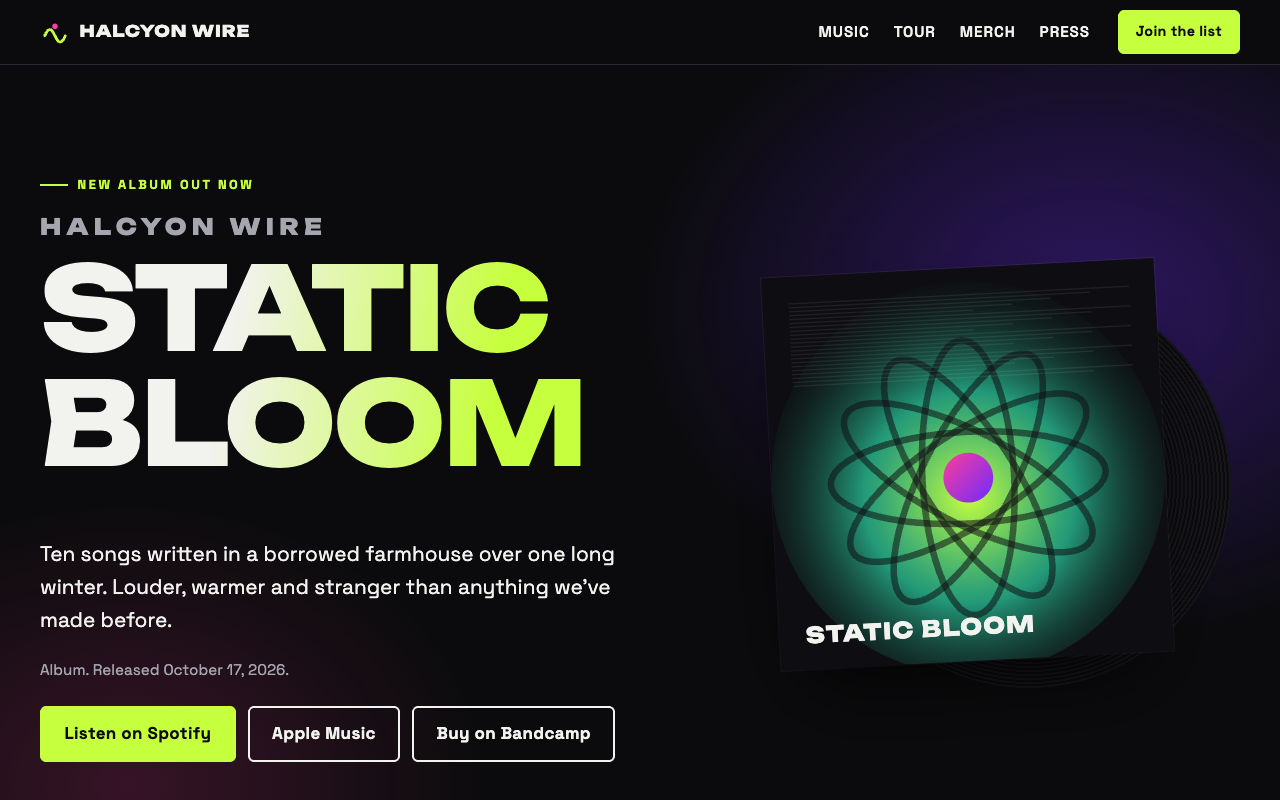
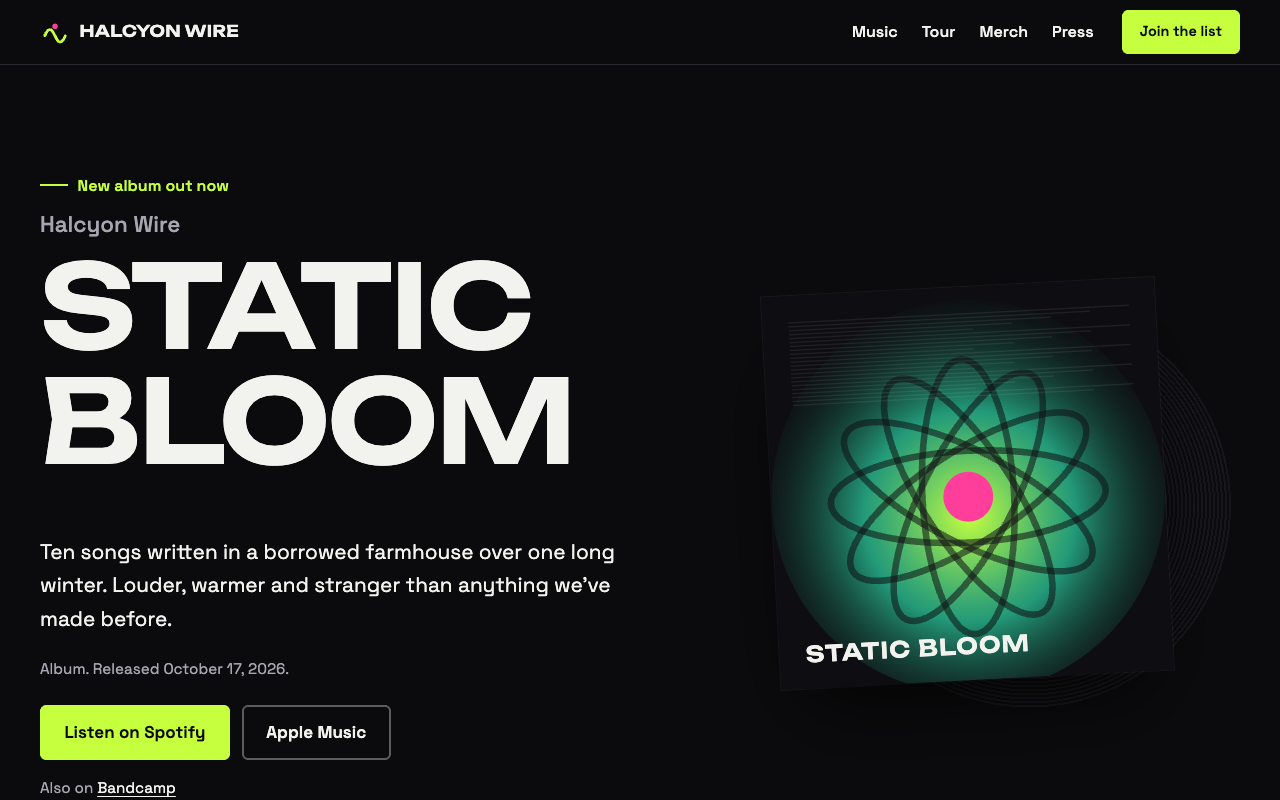
Unslop pass: no gradient text, washes or looping motion; lime as the one accent; sentence-case labels

diff --git a/src/styles/global.css b/src/styles/global.css
@@ -14,6 +14,7 @@
   --font-body: "Space Grotesk Variable", system-ui, sans-serif;
 
   --radius: 6px;
+  --ease: cubic-bezier(0.22, 1, 0.36, 1);
   --wrap: 1200px;
   --gutter: clamp(16px, 4vw, 40px);
   color-scheme: dark;
@@ -50,7 +51,7 @@ h1,
 h2,
 h3 {
   font-family: var(--font-display);
-  font-weight: 800;
+  font-weight: 600;
   line-height: 1;
   letter-spacing: -0.02em;
   margin: 0 0 0.5em;
@@ -66,8 +67,12 @@ h2 {
 }
 
 h3 {
+  font-family: var(--font-body);
   font-size: 1.15rem;
+  font-weight: 600;
+  line-height: 1.25;
   letter-spacing: 0;
+  text-transform: none;
 }
 
 p {
@@ -98,12 +103,10 @@ a {
   display: inline-flex;
   align-items: center;
   gap: 0.6rem;
-  font-size: 0.8rem;
-  font-weight: 700;
-  letter-spacing: 0.2em;
-  text-transform: uppercase;
+  font-size: 1rem;
+  font-weight: 500;
   color: var(--lime);
-  margin-bottom: 1.25rem;
+  margin-bottom: 1rem;
 }
 
 .kicker::before {
@@ -142,20 +145,18 @@ a {
   border: 2px solid transparent;
   border-radius: var(--radius);
   font: inherit;
-  font-weight: 700;
-  letter-spacing: 0.02em;
+  font-weight: 600;
   text-decoration: none;
   cursor: pointer;
   transition:
-    transform 0.15s ease,
-    background-color 0.15s ease,
-    color 0.15s ease,
-    box-shadow 0.15s ease;
+    transform 0.14s var(--ease),
+    background-color 0.14s var(--ease),
+    border-color 0.14s var(--ease),
+    color 0.14s var(--ease);
 }
 
-.btn:hover {
-  transform: translate(-2px, -2px);
-  box-shadow: 4px 4px 0 var(--magenta);
+.btn:active {
+  transform: scale(0.98);
 }
 
 .btn-primary {
@@ -163,10 +164,19 @@ a {
   color: #0b0b0d;
 }
 
+.btn-primary:hover {
+  background: #d4ff6e;
+}
+
 .btn-ghost {
-  border-color: var(--text);
+  border-color: rgb(242 242 238 / 0.35);
   color: var(--text);
   background: transparent;
+}
+
+.btn-ghost:hover {
+  border-color: var(--text);
+  background: rgb(242 242 238 / 0.06);
 }
 
 .btn-small {

diff --git a/UNSLOP.md b/UNSLOP.md
@@ -1,0 +1,43 @@
+# Unslop pass
+
+Done with the unslop skill (by Damir Sokolovsky, @heydamir, CC BY 4.0), 24 November 2026.
+
+## Audit
+
+Slop level: medium. A real poster look underneath (Unbounded, lime on near-black), with a lot of AI-default effects on top.
+
+- Gradient text on the album title in the hero (`index.astro`, `.release`)
+- Violet and magenta radial washes behind the hero (`index.astro`)
+- Looping motion: the record spinning forever behind the sleeve, and the city ticker scrolling forever (`index.astro`)
+- Magenta to violet gradients inside the cover art (`Cover.astro`)
+- Headings at weight 800, logo, prices and labels at 700 to 800
+- Uppercase tracked labels everywhere: section kickers, the band name over the title, nav links, player service tags, form labels, tour months, "Past shows", footer links, press kit facts
+- City names and merch names set in the uppercase display face, so every line shouted
+- Buttons jumping up and left with a magenta offset shadow on hover; merch cards lifting 4px
+- Tour rows getting a lime gradient wash on hover
+- "Sold out" as a dashed magenta badge
+- Three buttons in the hero (Spotify, Apple Music, Bandcamp)
+- Zero-padded dates ("04", "05")
+- Hype in the tour intro ("Tickets go fast")
+- Outlined giant wordmark in the footer
+- Magenta accent bars on quotes, lime on every press kit heading, so nothing led
+
+## Direction
+
+- Product: the home of a four-piece synth-rock band, for the new album, tour dates, merch and press
+- Character: loud, homemade, after-hours
+- World: gig flyers on a telephone pole, a farmhouse studio in a Minnesota winter, the van between towns
+- Moments: the Static Bloom sleeve with the record sliding out of it, and the tour list set like a flyer
+- Signature: the short lime rule before each section label
+
+## What changed
+
+- Spacing: tour date block with a fixed 4px gap between month and day; press members in two even columns instead of three and an orphan
+- Color: washes and gradient text removed; lime is the one accent (primary buttons, labels, the signature rule); magenta stays only inside the artwork and the logo dot; cover art uses flat magenta instead of a magenta to violet blend; quote bars are hairlines
+- Copy: "Tickets go fast" dropped; the hero keeps Spotify and Apple Music as buttons, with Bandcamp as a quiet "Also on" link below
+- Type: display headings stay uppercase (it's the band's poster face) at 600 instead of 800; everything small is sentence case at normal tracking; cities, merch names and press headings move to Space Grotesk at 600; dates read "Dec 4", day numbers tabular
+- Details: "Sold out" is muted text; merch prices plain tabular text; the footer wordmark is solid and quiet instead of outlined
+- Motion: the record and the ticker stand still; buttons change color on hover and press down slightly; no lifts or offset shadows; one easing curve
+
+screenshot-2: Home, tour dates
+screenshot-3: Press kit page
